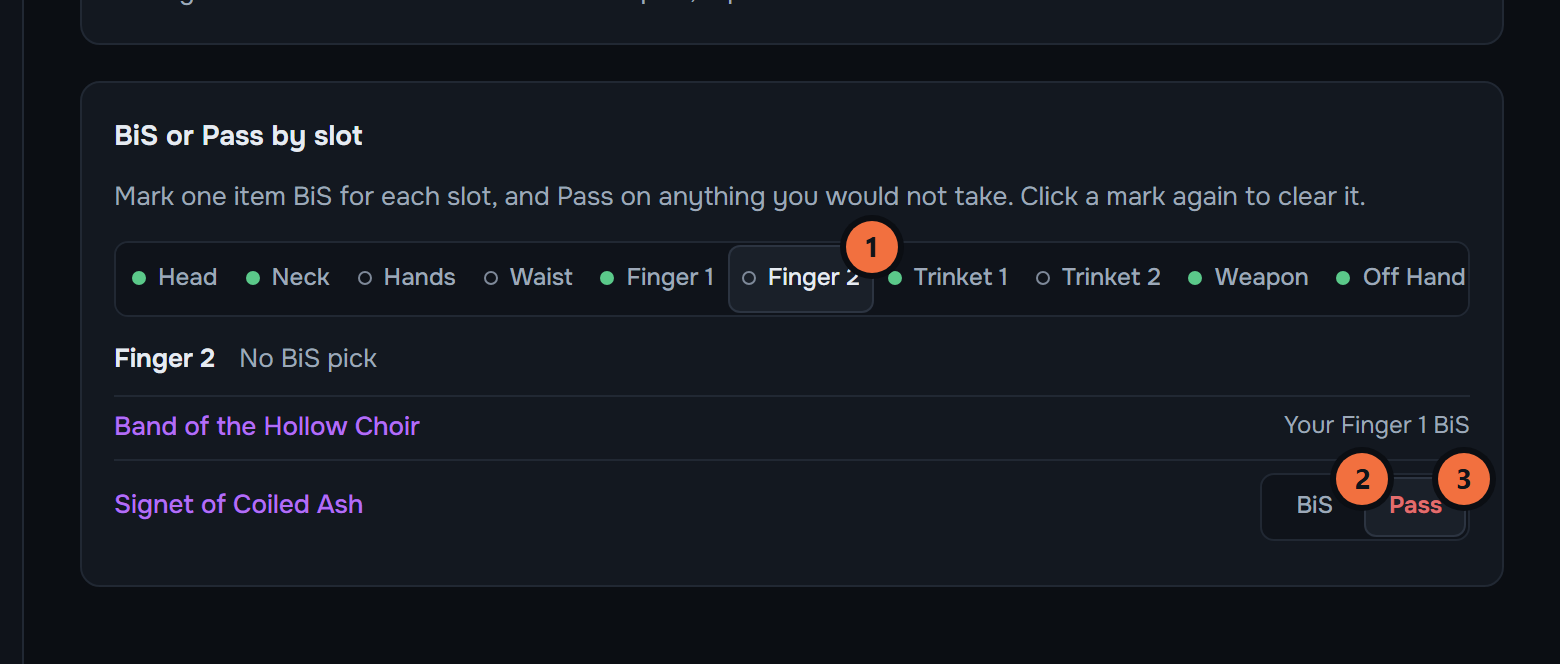
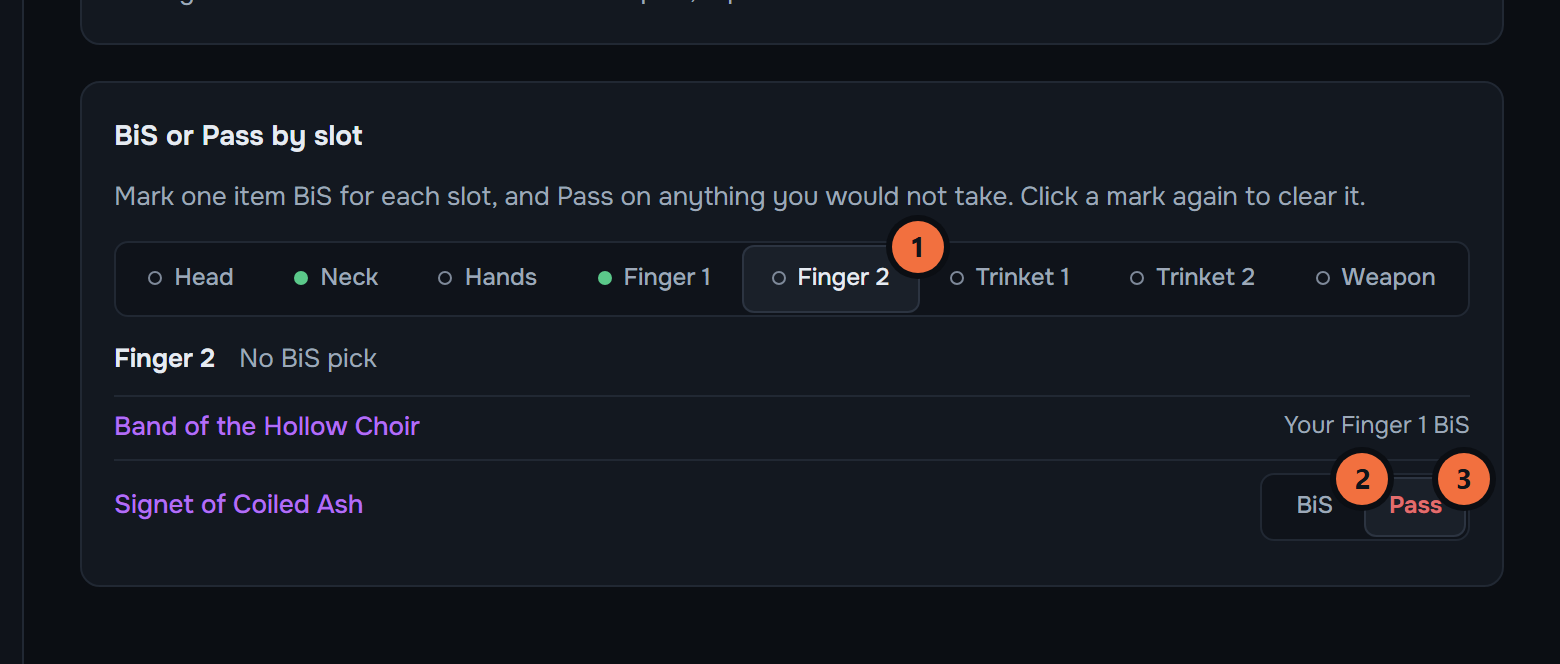
Help pictures: the wishlist picture is Katorri's too

Changed region(s): [[0.4923, 0.3313, 0.9538, 0.4518], [0.0615, 0.3916, 0.3692, 0.4518], [0.4, 0.3916, 0.4615, 0.4518]]

diff --git a/tests/browser-app/app.test.js b/tests/browser-app/app.test.js
@@ -1674,10 +1674,12 @@ describe('reduced motion', () => {
 // states above, with a numbered marker on what each step points at (null: a
 // step with nothing on that screen). `npm run help:shots` retakes them all
 // after a page changes; a normal run skips this block.
-// The one raider a picture shows is Kat (her ask, 2026-10-15), on the same
-// made-up season of loot and attendance.
-const katProfile = () => {
-  const state = profileState('', 'torbjorn', 'torbjorn');
+// The raider every picture shows is Kat (her ask, 2026-10-15: "always"), on
+// the same made-up season of loot and attendance.
+// Any picture state signed in as a raider, made into Kat: her character on the
+// page, in the sidebar's account box and in the session. The class's tier
+// tokens follow only on a plain profile (the wishlist keeps its own items).
+const asKat = (state, { tierTokens = true } = {}) => {
   const kat = {
     ...state.tables.players[0],
     name_realm: 'Katorrí-Stormrage',
@@ -1700,10 +1702,11 @@ const katProfile = () => {
     tables: {
       ...state.tables,
       players: [kat],
-      tier_token_map: TIER_TOKEN_MAP.filter((r) => r.class === 'Warlock')
+      ...(tierTokens ? { tier_token_map: TIER_TOKEN_MAP.filter((r) => r.class === 'Warlock') } : {})
     }
   };
 };
+const katProfile = () => asKat(profileState('', 'torbjorn', 'torbjorn'));
 
 const HELP_SHOT_STATES = {
   'sign-in': {
@@ -1726,9 +1729,12 @@ const HELP_SHOT_STATES = {
   },
   wishlist: {
     // Editing open, so the marks are buttons rather than read-only.
-    state: wishlistEditorState('', {
-      tables: { team_seasons: [{ season_code: SEASON.code, wishlist_open: true }] }
-    }),
+    state: asKat(
+      wishlistEditorState('', {
+        tables: { team_seasons: [{ season_code: SEASON.code, wishlist_open: true }] }
+      }),
+      { tierTokens: false }
+    ),
     markers: ['.wishlist-slot-tab[data-slot="Finger 2"]', '.mark-bis', '.mark-pass'],
     frame: 'main .card:has(.wishlist-slot-tabs)'
   },
